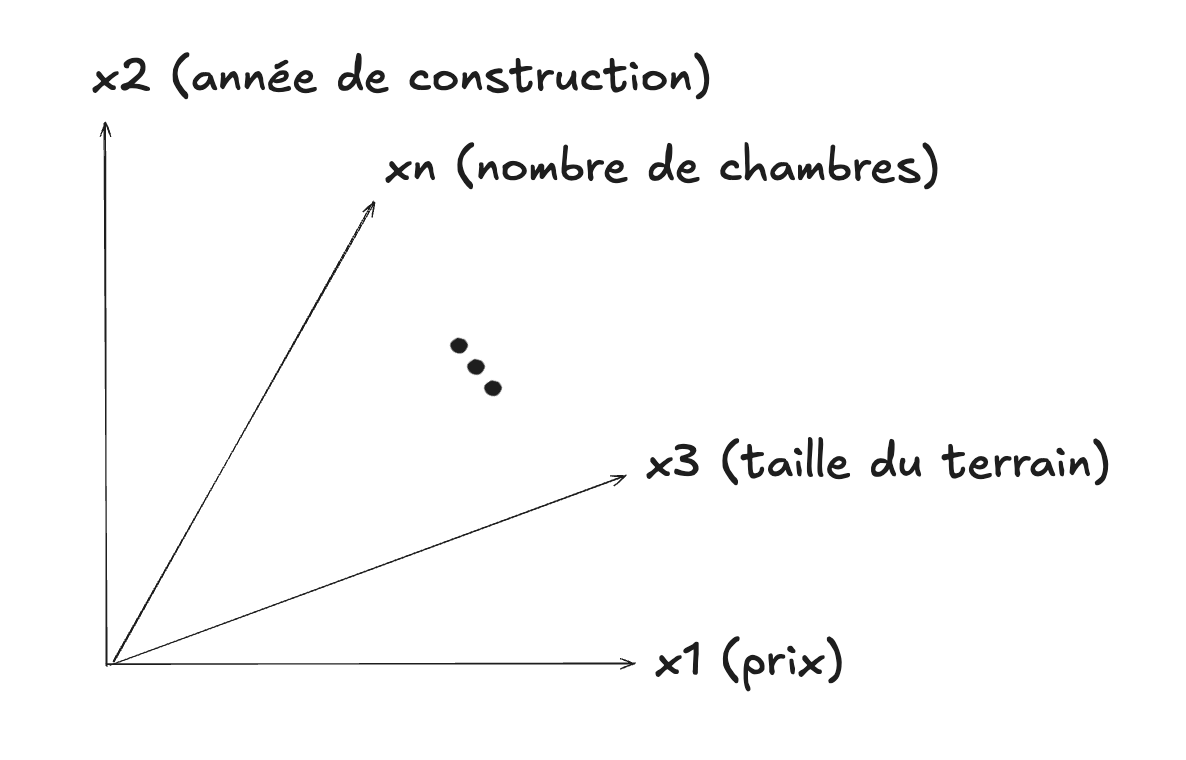
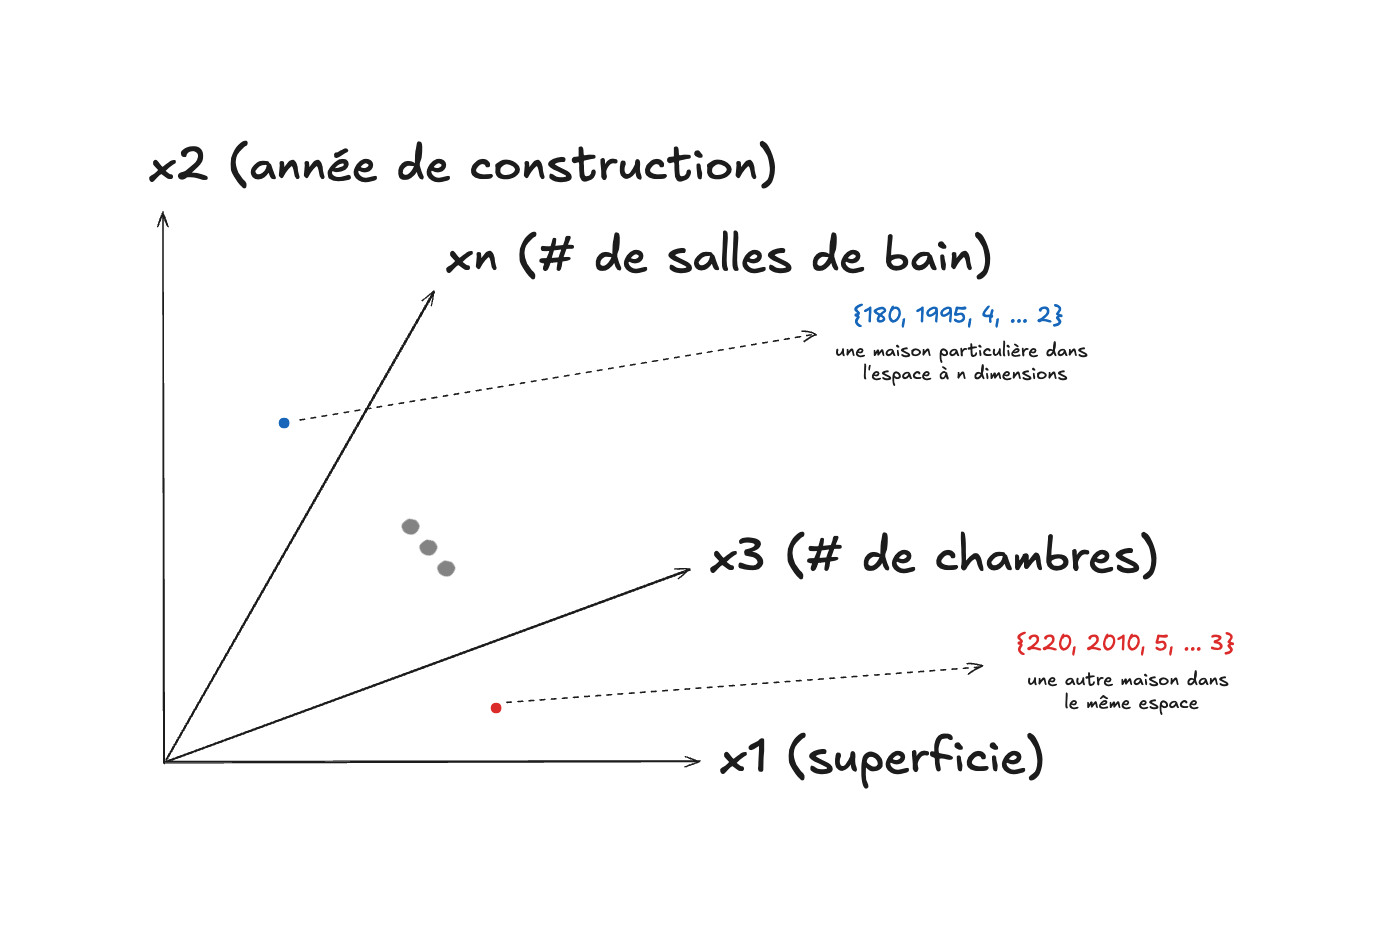
M2/p.30 : nf_house — retirer le prix des dimensions, aligner sur la table
L'image présentait le prix comme un axe de l'espace des caractéristiques,
en contradiction directe avec le paragraphe qui, quelques lignes plus haut,
en fait la *cible* (« le prix ne fait pas partie de cette description »).

- x1 : prix → superficie (qui manquait, alors que c'est la caractéristique
  vedette de tout le module) ;
- x3 / xn : chambres et salles de bain, dans l'ordre de la table et de la
  notation vectorielle de la page ;
- deux maisons-exemples ajoutées comme points, avec leurs vecteurs
  {180, 1995, 4, … 2} et {220, 2010, 5, … 3} — ce sont les lignes 1 et 3
  de la table, si bien que le lecteur peut faire la correspondance ;
- texte alternatif refait en conséquence (il annonçait encore « taille du
  terrain », désormais absente).

diff --git a/content/docs/module2/30-les-donnees.md b/content/docs/module2/30-les-donnees.md
@@ -110,7 +110,7 @@ immobile quelque part dans une pièce. Une quatrième caractéristique ? Un poin
 dans un espace à quatre dimensions. La règle ne change jamais : **autant de
 nombres pour décrire un objet, autant de dimensions dans l'espace où il vit.**
 
-{{< image src="/images/module2/nf_house.png" alt="Diagramme à plusieurs axes (superficie, année, taille du terrain, nombre de chambres, …) : une maison décrite par n caractéristiques est un point dans un espace à n dimensions." title="Chaque caractéristique devient un axe : une maison est un point dans un espace à autant de dimensions qu'elle a de caractéristiques." loading="lazy" >}}
+{{< image src="/images/module2/nf_house.png" alt="Diagramme à plusieurs axes, un par caractéristique : superficie, année de construction, nombre de chambres, … nombre de salles de bain. Deux maisons y sont placées comme des points, chacune accompagnée de son vecteur : {180, 1995, 4, … 2} en bleu et {220, 2010, 5, … 3} en rouge — deux maisons de la table, dans le même espace à n dimensions." title="Chaque caractéristique devient un axe : une maison est un point dans un espace à autant de dimensions qu'elle a de caractéristiques." loading="lazy" >}}
 
 Cette image géométrique est étonnamment puissante. Deux maisons aux
 caractéristiques semblables seront deux points *proches* ; deux maisons très
